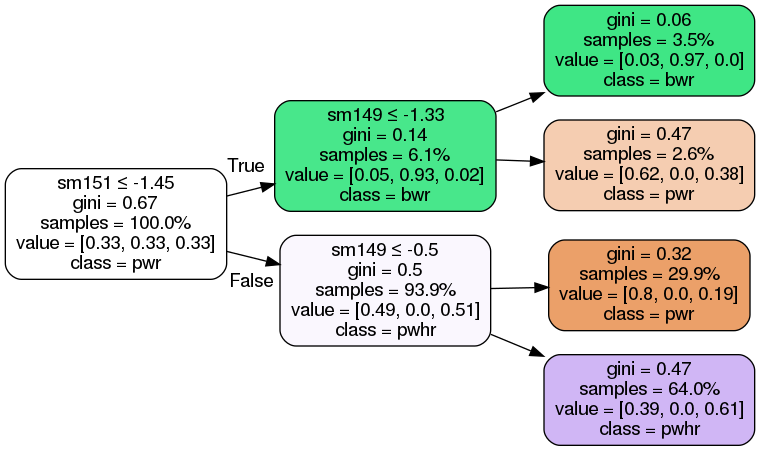
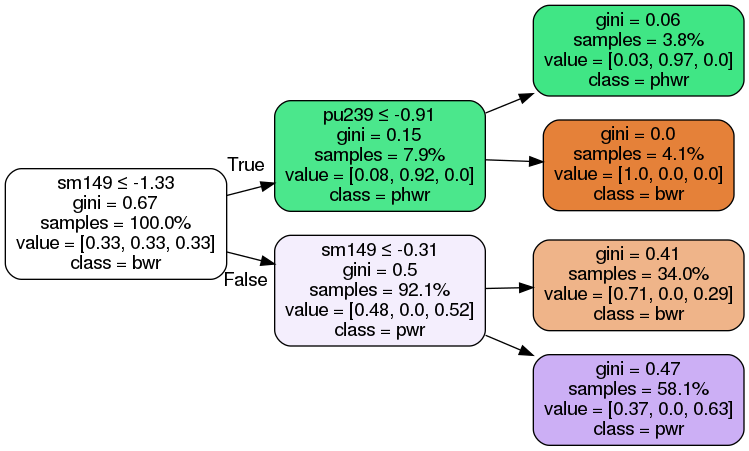
mostly dtree updates, and updates to kNN and errs so that some variables match across equations

diff --git a/document/chapters/litrev/algs.tex b/document/chapters/litrev/algs.tex
@@ -32,26 +32,27 @@ sample and the space that the training set populates. The predictions from
 nearest neighbors can be quite accurate, but are highly unstable to
 peturbations \cite{elements_stats}.
 
-Prediction with this method will be explained using \textit{k}-nearest
-neighbors regression.  First, the distances between the test sample and each of
-the training set instances are calculated.  Most commonly the Euclidian
-distance is used, but this walkthrough uses the Manhattan distance:
+The process of prediction with \textit{k}-nearest neighbors is as follows.
+First, the distances between the test sample and each of the training set
+instances are calculated.  Most commonly the Euclidian distance is used, but
+this walkthrough uses the Manhattan distance:
 \begin{equation}
   d_{i} = \sum_{j=1}^{N_{feats}} |x_{j,train} - x_{j,test}|
   \label{eq:l1}
 \end{equation}
 where $i$ is each training set instance, and $j$ refers to each feature in the
-training set.  The lowest \textit{k} $d_{i}$ are chosen, and the value, $Y$ is
-predicted using:
+training set.  The lowest \textit{k} $d_{i}$ are chosen. For \textit{k}-nearest
+neighbors regression, the value, $y$ is predicted using the following equation.
 \begin{equation}
-  Y(\boldsymbol{x}) = \frac{1}{k} \sum_{i=1}^{k} w_i \cdot y_i
-  \label{eq:knn}
+  y(\boldsymbol{x}) = \frac{1}{k} \sum_{i=1}^{k} w_i \cdot y_i
 \end{equation}
 where $w_{i}$ is either uniform and takes on a value of $1$ or is
 distance-based and takes on a value of $1/d_{i}$ and $\boldsymbol{x}$ is the
-full set of features.  This averages the closest \textit{k} neighbors for an
-estimate of the unknown sample, as shown in Equation \ref{eq:knn}.  For
-classification, the mode of the \textit{k} nearest neighbors is taken.  
+full set of features. The regression equation averages the closest \textit{k}
+neighbors for an estimate of the unknown sample.  In \textit{k}-nearest
+neighbors classification, the class label $y$ is predicted using the mode of
+the nearest neighbors selected using the \textit{k} smallest $d_i$, or when
+$w_i$ is $1/d{i}$ the weighted mode is used to choose the predicted label.
 
 \begin{figure}[!htb]
   \centering
@@ -77,17 +78,54 @@ Decision trees are a common choice because they are simple to implement and
 provide an interpretable model. However, the predictions from decision trees,
 similar to \textit{k}-nearest neighbors, are unstable to peturbations.  What
 follows is a highly simplified explanation of the Classification and Regression
-Trees algorithm for growing decision trees and a more complete treatment can be
-found in Reference \cite{elements_stats} or in the User Guide in Reference
-\cite{scikit}.
+Trees algorithm for growing decision trees, showing only the equations for
+splitting criteria.  A more complete treatment can be found in Reference
+\cite{elements_stats} or in the User Guide in Reference \cite{scikit}.
 
-The decision trees algorithm splits the feature space into different regions.
-Decision trees are constructed by iteratively finding places in the feature
-space at which to split the data to best predict a label, maximizing
-differentiation between average label values at each split, or grouping similar
-label values or classes together.  This process continues until some externally
-set stopping requirement is met, or no information gain can be made by
-continuing to create splits. 
+At their core, decision trees algorithms split the feature space into different
+regions.  Decision trees are constructed by iteratively finding places in the
+feature space at which to split the data to best predict a label. Some measure
+of information gain (more accurately the opposite, impurity, denoted here as
+$H$) is used to select a splitting criterion at each split, which maximizes
+differentiation between average label values in regression or groups similar
+labels together in classification.  This process continues until some
+externally set stopping requirement is met, or no information gain can be made
+by continuing to create splits. 
+
+Each split creates two new nodes on the tree, where the node has to find a new
+splitting criterion. In the math that follows, there are nodes given by $m$,
+and a number of samples in each node given by $N_{\text{samples}, m}$. The
+individual node samples are given by $i$. The impurity at the node is denoted
+as $H(m)$. In classification, the node impurity can be measured by the Gini
+index, where $p_{m, k}$ is the proportion of class $k$ observations at the
+node:
+\begin{equation}
+  \begin{aligned}
+    p_{m, k} &= \frac{1}{N_{\text{samples}, m}} \sum_{i=1}^{N_{\text{samples}, m}}
+              I(y = k)
+    \\
+    H(m) &= \sum_k p_{m, k} (1 - p_{m, k})
+  \end{aligned}
+\end{equation}
+And in regression, the node impurity $H(m)$ can be measured by the mean squared
+error, where $\bar{y}_m$ is the average value of the samples in the node.
+\begin{equation}
+  \begin{aligned}
+    \bar{y}_m &= \frac{1}{N_{\text{samples}, m}} \sum_{i=1}^{N_{\text{samples}, m}} 
+                 y_{i, m}
+    \\
+    H(m) &= \frac{1}{N_{\text{samples}, m}} \sum_{i=1}^{N_{\text{samples}, m}}
+              (y_i - \bar{y}_{i, m})^2
+  \end{aligned}
+\end{equation}
+The splitting criterion with the lowest impurity is the one that is chosen to
+make the split.  This will partition the feature space and the splitting
+process will continue until a pre-defined tree size or number of samples per
+node. Without a pre-defined stopping point the tree will grow until there is
+one sample per node. This process can be understood more intuitively by
+stuyding Figure \ref{fig:dtr}. Note that this tree was created using a maximum
+tree depth of $2$ for visualization purposes in order to explain the process,
+so is not indicative of a real decision tree.
 
 \begin{figure}[!htb]
   \centering
@@ -97,23 +135,20 @@ continuing to create splits.
   \label{fig:dtr}
 \end{figure}
 
-Each split creates two new nodes on the tree, where the node has to find a new splitting criterion.
-This is \todo{left off here}
-
-The proportion of class $k$ observations in node $m$: 
-\[p_{mk} = 1/ N_m \sum_{y \in Q_m} I(y = k)\]
-
-In classification, the node impurity $H(Q_m)$ can be measured by the Gini index: 
-\begin{equation}
-  H(Q_m) = \sum_k p_{mk} (1 - p_{mk})
-\end{equation}
-And in regression, the node impurity $H(Q_m)$ can be measured by mean squared error:
-\begin{equation}
-  \begin{aligned}
-    \bar{y}_m &= \frac{1}{N_m} \sum_{y \in Q_m} y \\
-    H(Q_m) &= \frac{1}{N_m} \sum_{y \in Q_m} (y - \bar{y}_m)^2
-  \end{aligned}
-\end{equation}
+In Figure \ref{fig:dtr}, the first split is determined to occur at the feature
+Sm149 on whether the nuclide measurement is above a value of $-1.33$. Note that
+this value is negative because of the scaling process the training set is put
+through, described in Section \ref{sec:statmodels1}.\todo{check this later} The
+majority class at this node is \gls{BWR} which is expected since the training
+set is 72\% \gls{BWR}.  The values list indicates the fraction of each class in
+the node, which is alphabetically ordered \texttt{[BWR, PHWR, PWR]}. It is even
+among the three because the class weights were told to be balanced.  This
+splitting criterion provides a Gini impurity score of 0.67, which represents
+the minimum Gini impurity of all the candidate splits, but also indicates there
+are multiple classes represented in this node (again, expected).  It would be 0
+if there were only one class in the node.  In the visualization, the shading of
+the colors in the tree are bolder for there being a higher fraction of a single
+class.
 
 \subsubsection{Maximum Log-Likelihood Calculations}
 

diff --git a/document/chapters/litrev/errs.tex b/document/chapters/litrev/errs.tex
@@ -41,15 +41,15 @@ For the classification of reactor type, it is typical to use an accuracy score
 for classification, where the total number of correct predictions is taken as a
 fraction of the entire sample set.
 \begin{equation}
-  \textit{accuracy} = \frac{1}{n_\text{samples}} \sum_{i=1}^{n_\text{samples}} 
-                      1(y_{pred,i} = y_{true,i})
+  \textit{accuracy} = \frac{1}{N_\text{samples}} \sum_{i=1}^{N_\text{samples}} 
+                      I(y_{pred,i} = y_{true,i})
 \end{equation}
 
 But training sets can have an uneven number of classes represented.  A more
 fair scoring system for imbalanced datasets is instead balanced accuracy, which
 averages the accuracy of each class. This would provide a range from 0 to 1. In
 this work, however, the balanced accuracy is used with \texttt{adjusted=True}
-in scikit-learn. This rescales the range to $\frac{1}{1-n_\text{classes}}$ to
+in scikit-learn. This rescales the range to $\frac{1}{1-N_\text{classes}}$ to
 1, where 0 is considered random scoring.  This is done by defining a sample
 weight as the following, based on its class frequency: \cite{scikit}
 \begin{equation}
@@ -58,16 +58,9 @@ weight as the following, based on its class frequency: \cite{scikit}
 for \textit{j} classes and \textit{i} samples. Thus, the balanced accuracy is 
 the following with the adjusted weights.
 \begin{equation}
-  \textit{balanced-accuracy} = \frac{1}{\sum{w_i}} \sum_{i=1}^{n_\text{samples}} 
-                               w_i \cdot 1(y_{pred, i} = y_{true_i})
+  \textit{balanced-accuracy} = \frac{1}{\sum_{i}{w_i}} \sum_{i=1}^{N_\text{samples}}
+                               w_i \cdot I(y_{pred, i} = y_{true_i})
 \end{equation}
-
-\begin{figure}[!htb]
-  \centering
-  \includegraphics[width=0.4\linewidth]{./chapters/litrev/cm_example.png}
-  \caption{Example of a confusion matrix for the three reactor types}
-  \label{fig:cm_ex}
-\end{figure}
 
 In addition to the metrics which combine the knowledge of true positive and
 true negative predictions, it is also important to study the
@@ -76,7 +69,15 @@ predictions and the false positive predictions, which can be useful information
 in understanding an imperfect accuracy or balanced accuracy score. For example,
 Figure \ref{fig:cm_ex} pictures an example confusion matrix that could result
 from this dataset, where a fraction of 1 \gls{PHWR}s are correctly predicted,
-but a fraction of 0.1 \gls{PWR}s and \gls{BWR}s get misclassified as the other. 
+but a fraction of 0.1 \gls{PWR}s and \gls{BWR}s get misclassified as the other.
+\todo[inline]{fix plural acro situation here}
+
+\begin{figure}[!htb]
+  \centering
+  \includegraphics[width=0.4\linewidth]{./chapters/litrev/cm_example.png}
+  \caption{Example of a confusion matrix for the three reactor types}
+  \label{fig:cm_ex}
+\end{figure}
 
 \noindent \textbf{Regression Mean Error Calculations}
 
@@ -91,7 +92,7 @@ absolute error could be a small relative error. Therefore, they are all
 tracked.  The \gls{MAE}, \gls{MedAE}, and \gls{MAPE} are calculated as follows,
 respectively.
 \begin{equation}
-  \textit{MAE} = \frac{1}{n_{\text{samples}}} \sum_{i=1}^{n_{\text{samples}}} 
+  \textit{MAE} = \frac{1}{N_{\text{samples}}} \sum_{i=1}^{N_{\text{samples}}} 
                  \left| y_{true, i} - y_{pred, i} \right|
 \end{equation}
 \begin{equation}
@@ -99,7 +100,7 @@ respectively.
                                  \mid y_{true, n} - y_{pred, n} \mid)
 \end{equation}
 \begin{equation}
-  \textit{MAPE} =  \frac{100}{n_{\text{samples}}} \sum_{i=1}^{n_{\text{samples}}} 
+  \textit{MAPE} =  \frac{100}{N_{\text{samples}}} \sum_{i=1}^{N_{\text{samples}}} 
                    \frac{\left| y_{true, i} - y_{pred, i} \right|}{y_{true, i}}
 \end{equation}
 

diff --git a/document/chapters/exp1/statmodels.tex b/document/chapters/exp1/statmodels.tex
@@ -21,6 +21,8 @@ will have acceptably fast and reliable algorithms, but the use of python
 provides a platform for seamless integration of all the tools in the workflow.
 This section walks through the implementation of the two scikit algorithms. 
 
+\todo[inline]{warning: it appears you don't discuss training set scaling and 
+you need to}
 \todo[inline]{is more detail, i.e. code snippets from scripts, needed? are
 footnotes w github links better here?}
 
